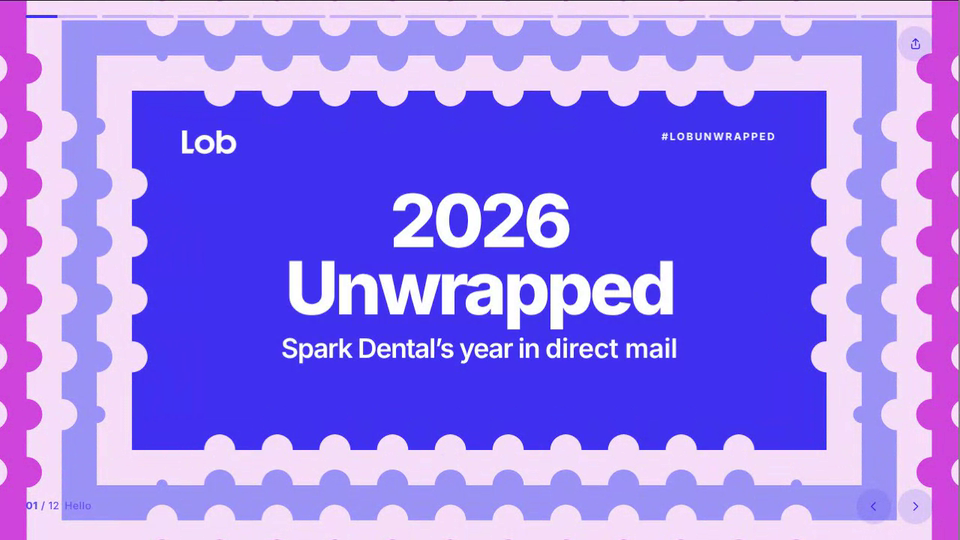
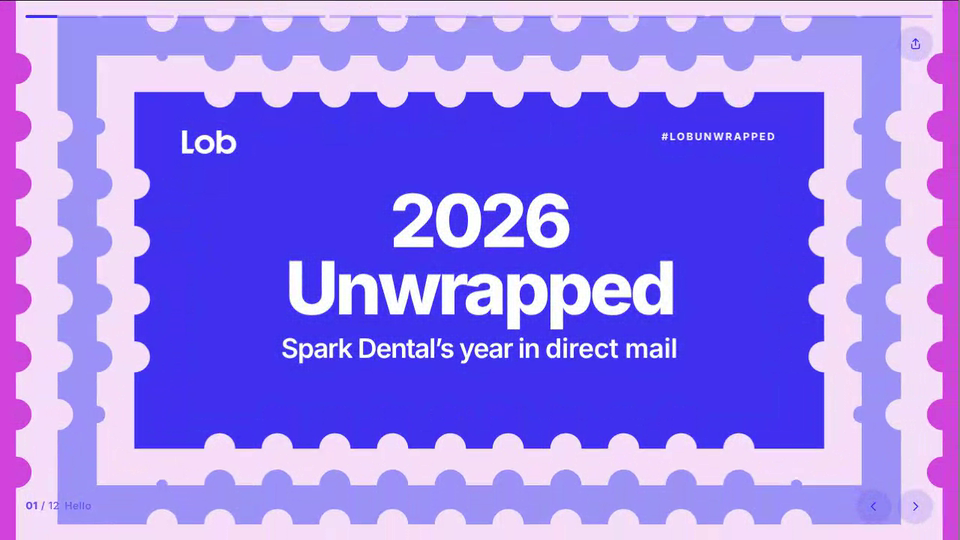
Lob Unwrapped: steady rhythmic stamp beat on slide 1, delivery slide reduced to delivery time
Claude-Session: https://claude.ai/code/session_01AHeBdx8DNoKfudp6tSCb8e

diff --git a/lob-unwrapped/index.html b/lob-unwrapped/index.html
@@ -357,10 +357,7 @@ SL.push({t:'blue',n:'Results',d:6500,bg:T('star',[PW,B,M3,B],{pts:12,n:9,per:2.6
 /* 9 delivery */
 SL.push({t:'blue',n:'Speed & quality',d:6500,bg:'<canvas class="tun bgc" data-trail="purl" data-x0=".535" data-w=".33" data-ratio="1.3" data-py=".8"></canvas>',h:
   '<div class="in"><div class="tx">'+R(0,'Delivery','div','k')+R(1,C(D.days,'d1')+'<small style="margin-left:.5em">days</small>','div','big lg')+R(2,'average time to <i>mailbox</i>','div','lead')+
-  '<div class="fun">'+
-  R(3,'<i>'+F.pct(D.ontime)+'</i><div>delivered on time<small>'+F.p1(D.ontime)+' of pieces hit their window</small></div>','div','row')+
-  R(4,'<i><svg class="chk" viewBox="0 0 24 24" aria-hidden="true"><path d="M4.5 12.8 9.6 18 19.5 7"/></svg></i><div>'+C(D.bad,'int')+' bad addresses caught<small>fixed or stopped before print</small></div>','div','row')+
-  R(5,'<i>$</i><div>'+usd(D.saved)+' postage saved<small>on mail that would never have landed</small></div>','div','row')+'</div></div></div></div>'});
+  '</div></div>'});
 /* 10 persona: scalloped mandala rings turning around a big flat circle */
 SL.push({t:'mag',n:'Your persona',d:6500,bg:T('scallop',[B,MG,B,M3],{pts:16,n:8,per:3,rot:10},'bgc'),h:
   '<div class="in ctr"><div class="pcirc">'+R(0,'Your mail personality','div','k')+R(1,persona[0]+'<br><i>'+persona[1]+'</i>','div','persona')+R(2,persona[2],'p','lead')+'</div></div>'+
@@ -465,19 +462,18 @@ function stampRamp(c,x,y,w,h,sp,rn){var P=Math.PI,m=sp*.95,cx=x+w/2,cy=y+h/2,hw=
   c.lineTo(x,y+h);
   for(j=nv-1;j>=-nv;j--){pos=(j+.5)*sp;rr=rad(pos,hh);if(rr>.6){c.lineTo(x,cy+pos+rr);c.arc(x,cy+pos,rr,P/2,-P/2,true)}}
   c.closePath()}
-/* slide 1: the stamp lifts, slams down, and the press shoves the stamp behind it outward; the push ripples through the rest */
-function pressSeq(ctx,cols,cx,cy,hw,hh,W,Hh,t){var L=cols.length,N=11,gap=Hh*.065,tI=.68,sp=Hh*.107,rn=Hh*.029,k,u,off,hwk,hhk,sc,uu,a,b;
+/* slide 1: a steady 1.5 s beat. The stamp lifts a little, presses in, and eases back out; at the press the stamp behind it is pushed out and the push travels outward through the rest as a smooth wave, with no pause between beats */
+function pressSeq(ctx,cols,cx,cy,hw,hh,W,Hh,T){var L=cols.length,N=11,gap=Hh*.065,sp=Hh*.107,rn=Hh*.029,ph=(T/1.5)%1,k,x,b,off,hwk,hhk,sc,u;
+  function sm(v){v=Math.max(0,Math.min(1,v));return v*v*(3-2*v)}
   ctx.fillStyle=cols[(N+1)%L];ctx.fillRect(0,0,W,Hh);
-  for(k=N;k>=1;k--){u=t-(tI+(k-1)*.085);off=k*gap;if(u>0)off+=gap*1.5*Math.pow(.74,k-1)*Math.exp(-3*u)*Math.sin(10*u);
+  for(k=N;k>=1;k--){x=(((ph-.25-.055*(k-1))%1)+1)%1;off=k*gap;if(x<.65){b=Math.sin(Math.PI*x/.65);off+=gap*1.6*Math.pow(.8,k-1)*b*b}
     hwk=hw+off;hhk=hh+off;ctx.beginPath();stampRamp(ctx,cx-hwk,cy-hhk,2*hwk,2*hhk,sp,rn);ctx.fillStyle=cols[k%L];ctx.fill()}
-  if(t<.55){a=t/.55;sc=1+.05*(1-Math.pow(1-a,3))}
-  else if(t<tI){b=(t-.55)/(tI-.55);sc=1.05-.19*b*b*b}
-  else{uu=t-tI;sc=1-.14*Math.exp(-4.2*uu)*Math.cos(9*uu)}
+  if(ph<.25){u=ph/.25;sc=u<.35?1+.03*sm(u/.35):1.03-.15*sm((u-.35)/.65)}else sc=.88+.12*sm((ph-.25)/.75);
   ctx.beginPath();stampRamp(ctx,cx-hw*sc,cy-hh*sc,2*hw*sc,2*hh*sc,sp,rn);ctx.fillStyle='#4131f1';ctx.fill()}
 function tunnel(cv,tk){var d=cv.dataset,ctx=cv.getContext('2d'),dpr=Math.min(1.5,window.devicePixelRatio||1),pats=[],sets=[],cols=d.cols.split('|').map(function(c,ci){if(/^check:/.test(c)){var set=[0,1,2,3].map(function(sd){var pt=mkPat(ctx,c,dpr,sd);pats.push(pt);return pt});sets[ci]=set;return set[0]}if(/^diag:/.test(c)){var pd=mkPat(ctx,c,dpr,0);pats.push(pd);return pd}return c}),per=+d.per||2.4,t0=performance.now(),slide=cv.closest('.slide'),art=d.at?slide.querySelector('.art'):null,stamps=d.press==='1'?slide.querySelectorAll('.burstsvg'):null,from=d.from?slide.querySelector(d.from):null;
   (function f(now){if(tk!==token)return;var s=fit(cv),t=RM?.35:(now-t0)/1000/per,cx=s[0]/2,cy=s[1]/2,o=(now/22)%(28*dpr),asp=+d.asp||1,base=0,cr=cv.getBoundingClientRect(),k=cr.width?s[0]/cr.width:1,ph=t-Math.floor(t);
     var fi=RM?0:Math.floor(now/450)%4;sets.forEach(function(st,ci){if(st)cols[ci]=st[fi]});pats.forEach(function(pt){pt.setTransform(new DOMMatrix([1,0,0,1,o,o]))});
-    if(d.press==='seq'){var pt2=s[1]>s[0];pressSeq(ctx,cols,s[0]/2,s[1]/2,pt2?.4*s[0]:.3625*s[0],pt2?.3198*s[1]:s[1]/3,s[0],s[1],RM?2.9:((now-t0)/1000)%3);if(!RM)requestAnimationFrame(f);return}
+    if(d.press==='seq'){var pt2=s[1]>s[0];pressSeq(ctx,cols,s[0]/2,s[1]/2,pt2?.4*s[0]:.3625*s[0],pt2?.3198*s[1]:s[1]/3,s[0],s[1],RM?1.4:(now-t0)/1000);if(!RM)requestAnimationFrame(f);return}
     if(art&&cr.width){var ar=art.getBoundingClientRect();cx=(ar.left+ar.width/2-cr.left)*k;cy=(ar.top+ar.height/2-cr.top)*k}
     if(stamps){var st=stamps[0],lan=getComputedStyle(st).display!=='none';if(!lan)st=stamps[1];var sr=st.getBoundingClientRect(),fw=lan?116/160:48/60,fh=lan?60/90:82/100,hw=sr.width*fw/2*k,hh=sr.height*fh/2*k,sc=RM?1:.95-.07*Math.cos(6.2832*ph);
       cx=(sr.left+sr.width/2-cr.left)*k;cy=(sr.top+sr.height/2-cr.top)*k;asp=hw/hh;base=hh;if(d.press==='seq')sc=pressSeq(ctx,cols,cx,cy,hw,hh,s[0],s[1],RM?2.9:((now-t0)/1000)%3);stamps.forEach(function(e){e.style.transform='translate(-50%,-50%) scale('+sc+')'});if(d.press==='seq'){if(!RM)requestAnimationFrame(f);return}}
